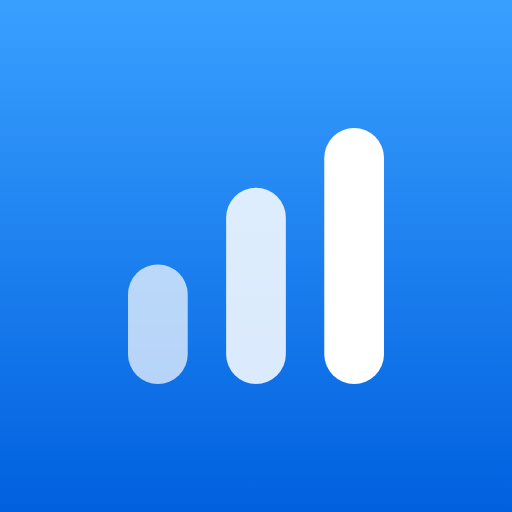
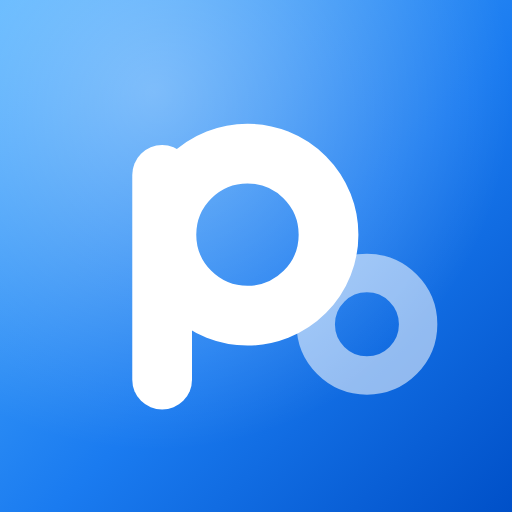
Neues App-Symbol für pairo
Ein p mit einem zweiten Ring daneben ersetzt die drei Balken, auf dem
Home-Bildschirm, im Dock, auf dem Sperrbildschirm und in der
Seitenleiste.

Claude-Session: https://claude.ai/code/session_01MW2uGvqSuQmTWzS6xFWwK6

diff --git a/index.html b/index.html
@@ -436,7 +436,12 @@ input[type="search"]::-webkit-search-decoration { -webkit-appearance: none; }
 <div class="wrap">
 
   <section id="lock" class="lock">
-    <svg class="appicon" viewBox="0 0 120 120" aria-hidden="true"><defs><linearGradient id="jf-g" x1="0" y1="0" x2="0" y2="1"><stop offset="0" stop-color="#3aa0ff"/><stop offset="1" stop-color="#0060df"/></linearGradient></defs><rect width="120" height="120" fill="url(#jf-g)"/><rect x="30" y="62" width="14" height="28" rx="7" fill="#fff" opacity=".7"/><rect x="53" y="44" width="14" height="46" rx="7" fill="#fff" opacity=".85"/><rect x="76" y="30" width="14" height="60" rx="7" fill="#fff"/></svg>
+    <svg class="appicon" viewBox="0 0 120 120" aria-hidden="true"><defs><linearGradient id="jf-g" x1="0" y1="0" x2="1" y2="1"><stop offset="0" stop-color="#4fb0ff"/><stop offset=".55" stop-color="#1a7bf0"/><stop offset="1" stop-color="#0050c8"/></linearGradient>
+<radialGradient id="jf-gs" cx=".3" cy=".18" r=".7"><stop offset="0" stop-color="#fff" stop-opacity=".35"/><stop offset="1" stop-color="#fff" stop-opacity="0"/></radialGradient></defs>
+<rect width="120" height="120" fill="url(#jf-g)"/><rect width="120" height="120" fill="url(#jf-gs)"/>
+    <rect x="31" y="34" width="14" height="62" rx="7" fill="#fff"/>
+    <circle cx="58" cy="55" r="19" fill="none" stroke="#fff" stroke-width="14"/>
+    <circle cx="86" cy="76" r="12" fill="none" stroke="#fff" stroke-opacity=".55" stroke-width="9"/></svg>
     <h1>pairo</h1>
     <form id="lock-form" class="panel stack" autocomplete="off" action="javascript:void(0)" onsubmit="return false">
       <p class="hint" id="lock-intro">Lade …</p>
@@ -457,7 +462,12 @@ input[type="search"]::-webkit-search-decoration { -webkit-appearance: none; }
   <div id="app" hidden>
     <aside class="side">
     <header class="top">
-      <h1><svg class="brand" viewBox="0 0 120 120" aria-hidden="true"><defs><linearGradient id="jf-b" x1="0" y1="0" x2="0" y2="1"><stop offset="0" stop-color="#3aa0ff"/><stop offset="1" stop-color="#0060df"/></linearGradient></defs><rect width="120" height="120" fill="url(#jf-b)"/><rect x="30" y="62" width="14" height="28" rx="7" fill="#fff" opacity=".7"/><rect x="53" y="44" width="14" height="46" rx="7" fill="#fff" opacity=".85"/><rect x="76" y="30" width="14" height="60" rx="7" fill="#fff"/></svg>pairo</h1>
+      <h1><svg class="brand" viewBox="0 0 120 120" aria-hidden="true"><defs><linearGradient id="jf-b" x1="0" y1="0" x2="1" y2="1"><stop offset="0" stop-color="#4fb0ff"/><stop offset=".55" stop-color="#1a7bf0"/><stop offset="1" stop-color="#0050c8"/></linearGradient>
+<radialGradient id="jf-bs" cx=".3" cy=".18" r=".7"><stop offset="0" stop-color="#fff" stop-opacity=".35"/><stop offset="1" stop-color="#fff" stop-opacity="0"/></radialGradient></defs>
+<rect width="120" height="120" fill="url(#jf-b)"/><rect width="120" height="120" fill="url(#jf-bs)"/>
+    <rect x="31" y="34" width="14" height="62" rx="7" fill="#fff"/>
+    <circle cx="58" cy="55" r="19" fill="none" stroke="#fff" stroke-width="14"/>
+    <circle cx="86" cy="76" r="12" fill="none" stroke="#fff" stroke-opacity=".55" stroke-width="9"/></svg>pairo</h1>
       <div class="actions"><button class="btn" id="btn-more" type="button" aria-expanded="false">Mehr</button><button class="btn" id="btn-lock" type="button">Sperren</button><div class="seg themeseg" role="radiogroup" aria-label="Darstellung"><input type="radio" name="themequick" id="tq-light" value="light"><label for="tq-light"><svg viewBox="0 0 24 24" fill="none" stroke="currentColor" stroke-width="2" stroke-linecap="round" aria-hidden="true"><circle cx="12" cy="12" r="4.2" fill="currentColor"/><path d="M12 2.5v2.2M12 19.3v2.2M2.5 12h2.2M19.3 12h2.2M5.3 5.3l1.5 1.5M17.2 17.2l1.5 1.5M5.3 18.7l1.5-1.5M17.2 6.8l1.5-1.5"/></svg>Hell</label><input type="radio" name="themequick" id="tq-dark" value="dark"><label for="tq-dark"><svg viewBox="0 0 24 24" fill="currentColor" aria-hidden="true"><path d="M20 14.5A8.5 8.5 0 0 1 9.5 4a8.5 8.5 0 1 0 10.5 10.5Z"/></svg>Dunkel</label></div></div>
     </header>
     <button class="fab" id="fab" type="button" aria-label="Neuer Eintrag" hidden><svg viewBox="0 0 24 24" fill="none" stroke="currentColor" stroke-width="2.6" stroke-linecap="round" aria-hidden="true"><path d="M12 5v14M5 12h14"/></svg><span>Neuer Eintrag</span></button>

diff --git a/sw.js b/sw.js
@@ -1,5 +1,5 @@
 // Offline-Betrieb: App-Dateien aus dem Cache, im Hintergrund aktualisieren.
-const CACHE = 'juma-finance-v11';
+const CACHE = 'juma-finance-v12';
 const FILES = ['./', 'index.html', 'config.js', 'vendor/supabase.js', 'manifest.webmanifest', 'icons/icon-180.png', 'icons/icon-192.png', 'icons/icon-512.png'];
 self.addEventListener('install', e => { e.waitUntil(caches.open(CACHE).then(c => c.addAll(FILES)).then(() => self.skipWaiting())); });
 self.addEventListener('activate', e => {
